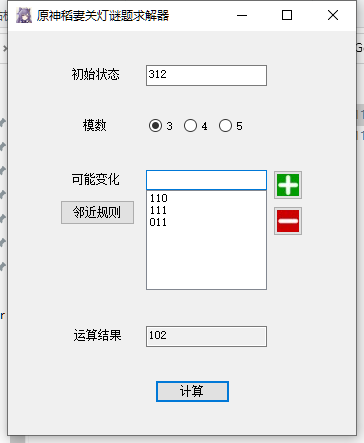
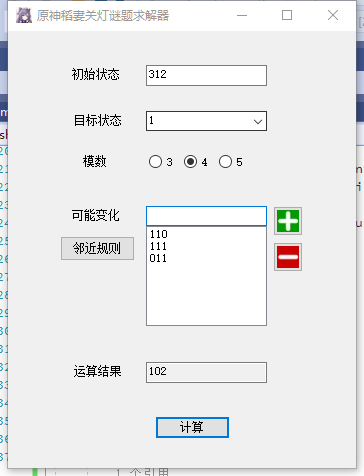
增加了目标状态功能，修复了一个bug。

diff --git a/Form1.Designer.cs b/Form1.Designer.cs
@@ -45,6 +45,8 @@ namespace GenshinSolver
             this.nearby_button = new System.Windows.Forms.Button();
             this.add = new System.Windows.Forms.Button();
             this.minus = new System.Windows.Forms.Button();
+            this.label4 = new System.Windows.Forms.Label();
+            this.target_status = new System.Windows.Forms.ComboBox();
             this.modular.SuspendLayout();
             this.SuspendLayout();
             // 
@@ -64,12 +66,13 @@ namespace GenshinSolver
             this.init_state_text.Size = new System.Drawing.Size(121, 21);
             this.init_state_text.TabIndex = 1;
             this.init_state_text.TextChanged += new System.EventHandler(this.init_state_text_TextChanged);
+            this.init_state_text.Validating += new System.ComponentModel.CancelEventHandler(this.init_state_text_Validating);
             // 
             // change_list
             // 
             this.change_list.DropDownStyle = System.Windows.Forms.ComboBoxStyle.Simple;
             this.change_list.FormattingEnabled = true;
-            this.change_list.Location = new System.Drawing.Point(138, 139);
+            this.change_list.Location = new System.Drawing.Point(138, 175);
             this.change_list.Name = "change_list";
             this.change_list.Size = new System.Drawing.Size(121, 126);
             this.change_list.TabIndex = 2;
@@ -78,7 +81,7 @@ namespace GenshinSolver
             // label1
             // 
             this.label1.AutoSize = true;
-            this.label1.Location = new System.Drawing.Point(62, 142);
+            this.label1.Location = new System.Drawing.Point(62, 178);
             this.label1.Name = "label1";
             this.label1.Size = new System.Drawing.Size(53, 12);
             this.label1.TabIndex = 3;
@@ -87,7 +90,7 @@ namespace GenshinSolver
             // label2
             // 
             this.label2.AutoSize = true;
-            this.label2.Location = new System.Drawing.Point(64, 298);
+            this.label2.Location = new System.Drawing.Point(64, 334);
             this.label2.Name = "label2";
             this.label2.Size = new System.Drawing.Size(53, 12);
             this.label2.TabIndex = 4;
@@ -95,7 +98,7 @@ namespace GenshinSolver
             // 
             // result_text
             // 
-            this.result_text.Location = new System.Drawing.Point(138, 295);
+            this.result_text.Location = new System.Drawing.Point(138, 331);
             this.result_text.Name = "result_text";
             this.result_text.ReadOnly = true;
             this.result_text.Size = new System.Drawing.Size(121, 21);
@@ -103,7 +106,7 @@ namespace GenshinSolver
             // 
             // calculate_button
             // 
-            this.calculate_button.Location = new System.Drawing.Point(147, 349);
+            this.calculate_button.Location = new System.Drawing.Point(147, 385);
             this.calculate_button.Name = "calculate_button";
             this.calculate_button.Size = new System.Drawing.Size(75, 23);
             this.calculate_button.TabIndex = 6;
@@ -114,7 +117,7 @@ namespace GenshinSolver
             // label3
             // 
             this.label3.AutoSize = true;
-            this.label3.Location = new System.Drawing.Point(73, 88);
+            this.label3.Location = new System.Drawing.Point(73, 124);
             this.label3.Name = "label3";
             this.label3.Size = new System.Drawing.Size(29, 12);
             this.label3.TabIndex = 7;
@@ -125,7 +128,7 @@ namespace GenshinSolver
             this.modular.Controls.Add(this.val3);
             this.modular.Controls.Add(this.val4);
             this.modular.Controls.Add(this.val5);
-            this.modular.Location = new System.Drawing.Point(138, 84);
+            this.modular.Location = new System.Drawing.Point(138, 120);
             this.modular.Name = "modular";
             this.modular.Size = new System.Drawing.Size(121, 22);
             this.modular.TabIndex = 8;
@@ -141,6 +144,7 @@ namespace GenshinSolver
             this.val3.Tag = "3";
             this.val3.Text = "3";
             this.val3.UseVisualStyleBackColor = true;
+            this.val3.CheckedChanged += new System.EventHandler(this.CheckedChanged);
             // 
             // val4
             // 
@@ -168,7 +172,7 @@ namespace GenshinSolver
             // 
             // nearby_button
             // 
-            this.nearby_button.Location = new System.Drawing.Point(52, 169);
+            this.nearby_button.Location = new System.Drawing.Point(52, 205);
             this.nearby_button.Name = "nearby_button";
             this.nearby_button.Size = new System.Drawing.Size(75, 25);
             this.nearby_button.TabIndex = 9;
@@ -179,7 +183,7 @@ namespace GenshinSolver
             // add
             // 
             this.add.Image = ((System.Drawing.Image)(resources.GetObject("add.Image")));
-            this.add.Location = new System.Drawing.Point(265, 139);
+            this.add.Location = new System.Drawing.Point(265, 175);
             this.add.Name = "add";
             this.add.Size = new System.Drawing.Size(30, 30);
             this.add.TabIndex = 10;
@@ -189,18 +193,38 @@ namespace GenshinSolver
             // minus
             // 
             this.minus.Image = ((System.Drawing.Image)(resources.GetObject("minus.Image")));
-            this.minus.Location = new System.Drawing.Point(265, 175);
+            this.minus.Location = new System.Drawing.Point(265, 211);
             this.minus.Name = "minus";
             this.minus.Size = new System.Drawing.Size(30, 30);
             this.minus.TabIndex = 11;
             this.minus.UseVisualStyleBackColor = true;
             this.minus.Click += new System.EventHandler(this.minus_Click);
             // 
+            // label4
+            // 
+            this.label4.AutoSize = true;
+            this.label4.Location = new System.Drawing.Point(64, 83);
+            this.label4.Name = "label4";
+            this.label4.Size = new System.Drawing.Size(53, 12);
+            this.label4.TabIndex = 12;
+            this.label4.Text = "目标状态";
+            // 
+            // target_status
+            // 
+            this.target_status.FormattingEnabled = true;
+            this.target_status.Location = new System.Drawing.Point(138, 80);
+            this.target_status.Name = "target_status";
+            this.target_status.Size = new System.Drawing.Size(121, 20);
+            this.target_status.TabIndex = 13;
+            this.target_status.Text = "不限";
+            // 
             // Form1
             // 
             this.AutoScaleDimensions = new System.Drawing.SizeF(6F, 12F);
             this.AutoScaleMode = System.Windows.Forms.AutoScaleMode.Font;
-            this.ClientSize = new System.Drawing.Size(348, 404);
+            this.ClientSize = new System.Drawing.Size(348, 437);
+            this.Controls.Add(this.target_status);
+            this.Controls.Add(this.label4);
             this.Controls.Add(this.minus);
             this.Controls.Add(this.add);
             this.Controls.Add(this.nearby_button);
@@ -241,6 +265,8 @@ namespace GenshinSolver
         private System.Windows.Forms.Button nearby_button;
         private System.Windows.Forms.Button add;
         private System.Windows.Forms.Button minus;
+        private System.Windows.Forms.Label label4;
+        private System.Windows.Forms.ComboBox target_status;
     }
 }
 

diff --git a/Solver.cs b/Solver.cs
@@ -18,15 +18,9 @@ namespace GenshinSolver
         Infinite, // 线性方程组有无穷解
         None // 线性方程组无解
     }
-
-    public class InfiniteSolutionException : Exception
+    public class NoSolutionException : Exception
     {
-        public InfiniteSolutionException() : base() { }
-    }
-
-    public class NoneSolutionException : Exception
-    {
-        public NoneSolutionException() : base() { }
+        public NoSolutionException() : base() { }
     }
     
     public class MalformedMatrixException : Exception
@@ -40,13 +34,15 @@ namespace GenshinSolver
         public float mod; // 模数，可能取值为[1, mod]
         private MatrixF change_mt; // 变化列表，每一步的影响
         private VectorF init_ve; // 初始状态
+        private float target_value; // 目标状态
 
-        public Solver(float[] init_state, float[,] change_list, int m)
+        public Solver(float[] init_state, float[,] change_list, int m, float target = float.MaxValue)
         {
             mod = m;
             count = init_state.Length;
             init_ve = DenseVector.OfArray(init_state);
             change_mt = DenseMatrix.OfArray(change_list);
+            target_value = target;
         }
         
         private static SolutionTypes DiscussSolutionType(MatrixF m, VectorF v) // 判断线性方程组解的情况。
@@ -80,22 +76,27 @@ namespace GenshinSolver
         private List<VectorF> primitive_solve() // 初步求解，获得带有不完整模数的列表。
         {
             List<VectorF> result_list = new List<VectorF>();
-            for(float target = 1; target <= mod; target++)
+            if (target_value == float.MaxValue) // 默认目标，全部覆盖
             {
-                VectorF target_vt = DenseVector.Create(count, target) - init_ve;
+                for(float target = 1; target <= mod; target++)
+                {
+                    VectorF target_vt = DenseVector.Create(count, target) - init_ve;
+                    SolutionTypes st = DiscussSolutionType(change_mt, target_vt);
+                    if (st == SolutionTypes.Single)
+                    {
+                        VectorF solution_p = change_mt.Solve(target_vt);
+                        result_list.Add(solution_p);
+                    }
+                }
+            } else // 设置了目标。
+            {
+                VectorF target_vt = DenseVector.Create(count, target_value) - init_ve;
                 SolutionTypes st = DiscussSolutionType(change_mt, target_vt);
                 if (st == SolutionTypes.Single)
                 {
                     VectorF solution_p = change_mt.Solve(target_vt);
                     result_list.Add(solution_p);
-                } else if (st == SolutionTypes.Infinite)
-                {
-                    throw new InfiniteSolutionException();
-                } else if (st == SolutionTypes.None)
-                {
-                    throw new NoneSolutionException();
                 }
-
             }
             return result_list;
         }
@@ -133,9 +134,21 @@ namespace GenshinSolver
             }
             return t;
         }
-        public int[] solve() // 返回一组最优的解。如果最优解有多个，则返回其中的一个。
+
+        public int final_value(int[] solution) // 输入解，得到根据这个解可以达到的最后的值。
+        {
+            // 取初值的首个进行计算
+            int tmp = (int) Math.Round(init_ve[0]);
+            for(int i = 0;i < solution.Length;i++)
+            {
+                tmp += ((int)Math.Round(change_mt.Column(0)[i]) * solution[i]);
+            }
+            return (tmp % (int)mod) + 1;
+        }
+        public (int[],int) solve() // 返回一组最优的解。如果最优解有多个，则返回其中的一个。返回一个解和一个解的结果。
         {
             List<VectorF> p_result = primitive_solve();
+            if (p_result.Count == 0) throw new NoSolutionException();
             int[] step_count = new int[p_result.Count];
             int minimal_step_count = int.MaxValue;
             int[] best_solution = new int[count];
@@ -148,7 +161,7 @@ namespace GenshinSolver
                     best_solution = current_solution;
                 }
             });
-            return best_solution;
+            return (best_solution, final_value(best_solution));
         }
     }
 }

diff --git a/Form1.cs b/Form1.cs
@@ -27,16 +27,19 @@ namespace GenshinSolver
 
         private void init_state_text_TextChanged(object sender, EventArgs e)
         {
-
-            var tl = GetMaxIntFromStr(init_state_text.Text);
-            if (tl >= 3 && tl <= 5)
+            if(init_state_text.TextLength > 0)
             {
-                foreach (RadioButton c in modular.Controls)
+                var tl = GetMaxIntFromStr(init_state_text.Text);
+                if (tl >= 3 && tl <= 5)
                 {
-                    c.Checked = c.Tag.ToString() == tl.ToString();
-                    c.Enabled = int.Parse(c.Tag.ToString()) >= tl;
+                    foreach (RadioButton c in modular.Controls)
+                    {
+                        c.Checked = c.Tag.ToString() == tl.ToString();
+                        c.Enabled = int.Parse(c.Tag.ToString()) >= tl;
+                    }
                 }
             }
+
         }
 
         private void nearby_button_Click(object sender, EventArgs e)
@@ -92,21 +95,50 @@ namespace GenshinSolver
             }
             if(mod > 0)
             {
-                Solver P = new Solver(Str2floatList(init_state_text.Text), f_change_list, mod);
+                Solver P = (target_status.Text=="不限"||target_status.Text=="") ? new Solver(Str2floatList(init_state_text.Text), f_change_list, mod) :
+                    new Solver(Str2floatList(init_state_text.Text), f_change_list, mod, (float)int.Parse(target_status.Text));
                 try
                 {
-                    int[] solution = P.solve();
+                    var (solution, step) = P.solve();
+                    target_status.Text = step.ToString();
                     result_text.Text = IntList2Str(solution);
-                } catch (NoneSolutionException)
+
+                } catch (NoSolutionException)
                 {
-                    MessageBox.Show("无解", "求解错误", MessageBoxButtons.OK, MessageBoxIcon.Error);
-                } catch (InfiniteSolutionException)
-                {
-                    MessageBox.Show("无穷解", "求解错误", MessageBoxButtons.OK, MessageBoxIcon.Error);
-                } catch (MalformedMatrixException)
+                    MessageBox.Show("无解或仅有无穷解", "求解错误", MessageBoxButtons.OK, MessageBoxIcon.Error);
+                } 
+                 catch (MalformedMatrixException)
                 {
                     MessageBox.Show("变化列表条件错误", "求解错误", MessageBoxButtons.OK, MessageBoxIcon.Error);
                 }
+            }
+        }
+
+        private void init_state_text_Validating(object sender, CancelEventArgs e)
+        {
+            if (!CheckValidNumStr(init_state_text.Text, true))
+            {
+                e.Cancel = true;
+                MessageBox.Show("必须输入仅由0-9的数字组成的字符串", "输入错误", MessageBoxButtons.OK, MessageBoxIcon.Error);
+            }
+        }
+
+        private void update_target_status_list(int max_val)
+        {
+            target_status.Items.Clear();
+            target_status.Items.Add("不限");
+            for(int i = 1; i <= max_val; i++)
+            {
+                target_status.Items.Add(i.ToString());
+            }
+        }
+
+        private void CheckedChanged(object sender, EventArgs e)
+        {
+            RadioButton rb = sender as RadioButton;
+            if(rb.Checked)
+            {
+                update_target_status_list(int.Parse((string)rb.Tag));
             }
         }
     }

diff --git a/NumStr.cs b/NumStr.cs
@@ -1,7 +1,17 @@
 using System;
-
 public class NumStr
 {
+	 public static bool CheckValidNumStr(string val, bool allow_zero, int max_length=int.MaxValue)
+    {
+		foreach(char c in val)
+        {
+			if (c < '0' || c > '9') return false;
+			int r =(int) (c - '0');
+			if (r == 0 && !allow_zero) return false;
+			if (val.Length > max_length) return false;
+        }
+		return true;
+    }
 	 public static int[] Str2IntList(string str)
 	{
 		char[] ca = str.ToCharArray();

diff --git a/README.md b/README.md
@@ -1,6 +1,6 @@
 # 原神稻妻关灯谜题求解器
 
-原神稻妻有一类特殊的谜题，用元素攻击击中其中的某个灯块或者拨动某些方块的朝向就可以引起一些图案变化。这类谜题往往看起来非常简单，但是实际解决起来却比较复杂。因为实际上这是一个经典的“关灯问题”，理论上需要解一个n元一次方程组才能解决。
+原神稻妻有一类特殊的谜题，用攻击击中其中的某个灯块或者拨动某些方块的朝向就可以引起一些图案变化。这类谜题往往看起来非常简单，但是实际解决起来却比较复杂。因为实际上这是一个经典的“关灯问题”，理论上需要解一个n元一次方程组才能解决。
 
 ## 用法
 
@@ -10,13 +10,15 @@
 
 为了方便起见，程序所有的输入输出都是以整数字符串序列的形式进行，比如三个灯的亮点个数分别为“0,1,2”，则实际需要输入的初始状态为012即可。
 
-“初始状态”指的是，在需要运算的时候，所有块的状态。如果是亮灯，需要规定亮灯个数为一个整数i，输入$i_1i_2i_3$即可。如果是旋转问题等等，则需要规定一个正方向以及一个旋转顺序，把四个方向编号“1,2,3,4”，然后把初始状态输入程序。
+“**初始状态**”指的是，在需要运算的时候，所有块的状态。如果是亮灯，需要规定亮灯个数为一个整数i，输入$i_1i_2i_3$即可。如果是旋转问题等等，则需要规定一个正方向以及一个旋转顺序，把四个方向编号“1,2,3,4”，然后把初始状态输入程序。
 
-“模数”为一个方块一共可能出现的状态。比如亮灯，每个方块可以亮灯的数量为1，2或3个，那么亮灯问题的模数就是3。如果是旋转问题，模数为方向数，即4 。
+“**目标状态**”指你希望最终解出的目标是哪个值。如果指定为任意，则程序会在[1,模数]之间找到所需要最少步数的解，同时在解完之后会更新这个值为解得的目标状态。如果指定为某个值，则程序只会以
 
-“可能变化”是一个列表，可以添加、删除值。可能变化的第n行为一个整数字符串序列（如1100），第n行的序列表示，当操作第n个方块之后，所有四个方块的变化方式（加法）。比如原来的状态是133，攻击中间的方块之后，变成了211，则说明攻击中间的方块会让所有方块都+1，则第二行“可能变化”值即为111。如果某个方块不受此影响，则“可能变化”值对它记为0。比如如果133->231，则此行为101。
+“**模数**”为一个方块一共可能出现的状态。比如亮灯，每个方块可以亮灯的数量为1，2或3个，那么亮灯问题的模数就是3。如果是旋转问题，模数为方向数，即4 。
 
-“临近规则”会生成一个默认的列表。这个列表中包含一个基于临近规则生成的可能变化序列。临近规则就是，当某个方块受到攻击之后，它会让和它相邻的两个方块值都+1。
+“**可能变化**”是一个列表，可以添加、删除值。可能变化的第n行为一个整数字符串序列（如1100），第n行的序列表示，当操作第n个方块之后，所有四个方块的变化方式（加法）。比如原来的状态是133，攻击中间的方块之后，变成了211，则说明攻击中间的方块会让所有方块都+1，则第二行“可能变化”值即为111。如果某个方块不受此影响，则“可能变化”值对它记为0。比如如果133->231，则此行为101。
+
+“**临近规则**”会生成一个默认的列表。这个列表中包含一个基于临近规则生成的可能变化序列。临近规则就是，当某个方块受到攻击之后，它会让和它相邻的两个方块值都+1。
 
 当填好“初始状态”、“模数”和“可能变化”之后，点击“计算”，就可以输出运算结果。运算结果如果为“2131”，则意为需要打击1方块2下、2方块1下，3方块3下，4方块1下，方可让四个方块同时达到某个相同值，解开谜题。
 
